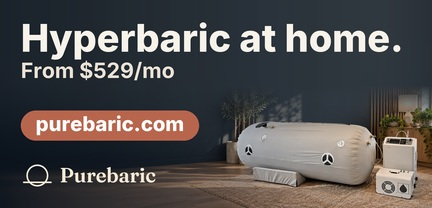
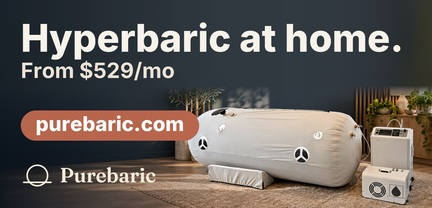
billboards: larger, unshaded chamber on the stacked 840x400 and 432x208 boards

Changed region(s): [[0.1204, 0.4038, 1.0, 1.0]]

diff --git a/_internal/billboards/generate-billboards.py b/_internal/billboards/generate-billboards.py
@@ -67,11 +67,11 @@ def place_photo(canvas, pw, x0):
         canvas.paste(fade,(x0,0),mask)
     return canvas
 
-def shade_left(im,W,reach=0.6):
+def shade_left(im,W,reach=0.6,floor_w=0.7):
     grad=Image.new('L',(W,H),0); gd=ImageDraw.Draw(grad); L=int(W*reach)
     for x in range(L): gd.line([(x,0),(x,H)],fill=int(150*(1-x/L)))
     # floor shading that fades out horizontally as well as vertically, so there is no hard edge
-    band=Image.new('L',(W,H),0); bp=band.load(); L2=int(W*0.7)
+    band=Image.new('L',(W,H),0); bp=band.load(); L2=int(W*floor_w)
     for y in range(300,H):
         v=90*min(1,(y-300)/320)
         for x in range(L2): bp[x,y]=int(v*(1-x/L2))
@@ -105,21 +105,26 @@ def logo_row(im,d,kind,M,url_style,W,small=False,bottom_pad=None):
 
 NARROW=2.6
 def narrow_scene(W,band):
-    # text band on top, photo bottom-right; the band is the photo's own top colour, blurred, and the photo fades up into it
-    hp=H-band; r=hp/photo.height; pw=int(photo.width*r); ph=photo.resize((pw,hp),Image.LANCZOS)
-    x0=max(0,W-pw)
-    if pw>W: ph=ph.crop((pw-W,0,pw,hp)); pw=W
+    """text band on top, photo below. The photo is cropped to the chamber (drop 15% ceiling, 5% rug) so the product
+       fills the band, the band colour is the plain wall, the fade into the photo is short, and the left shading stops
+       before the chamber so it is not darkened."""
+    hp=H-band
+    src=photo.crop((0,int(photo.height*0.15),photo.width,int(photo.height*0.95)))
+    r=hp/src.height; pw=int(src.width*r); ph=src.resize((pw,hp),Image.LANCZOS)
+    x0=W-pw
     im=Image.new('RGB',(W,H)); im.paste(top_fill(ph,W,band+2),(0,0))
-    im.paste(ph,(x0,band))
-    if x0>0:
+    if x0>=0:
+        im.paste(ph,(x0,band))
         from PIL import ImageFilter
         im.paste(wall_fill(ph,x0+2,hp).filter(ImageFilter.GaussianBlur(6)),(0,band))
         sw=min(600,max(60,pw//3)); fade=wall_fill(ph,sw,hp).filter(ImageFilter.GaussianBlur(6))
         mask=Image.new('L',(sw,hp),0); md=ImageDraw.Draw(mask)
         for x in range(sw): md.line([(x,0),(x,hp)],fill=int(255*(1-x/sw)**1.6))
         im.paste(fade,(x0,band),mask)
-    im=blend_down(im,ph,0,band,int(H*0.25),W)
-    return shade_left(im,W,reach=0.9)
+    else:
+        im.paste(ph.crop((-x0,0,pw,hp)),(0,band))   # wider than the board: crop the photo's own wall on the left
+    im=blend_down(im,ph,0,band,int(H*0.08),W)
+    return shade_left(im,W,reach=0.5,floor_w=0.42)
 
 def design_a(W):
     if W/H<NARROW:
